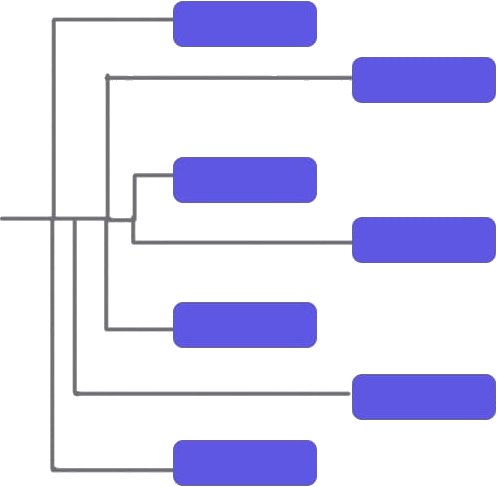
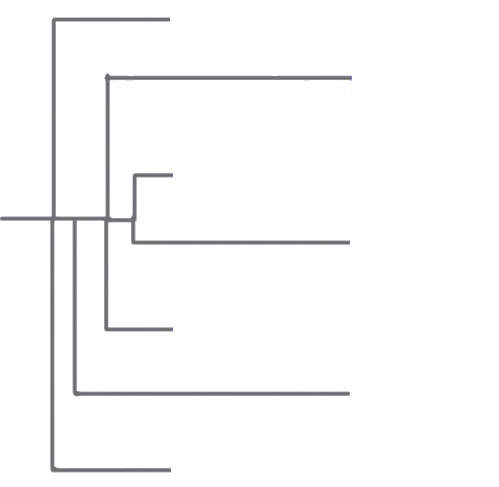
final commit

diff --git a/Category.html b/Category.html
@@ -13,7 +13,7 @@
         {
             padding: 20px;
             width: 100%;
-            margin-bottom: 60px;
+            margin-bottom: 10%;
         }
         .computerdiv
         {
@@ -38,155 +38,51 @@
         {
             
             margin-left: 0;
-            width: 60%;
+            width: 62%;
+            height: 70vh;
             background-image: url("assest/layout.png");
             background-repeat: no-repeat;
             background-size: 100% 100%;
             position: relative;
             
         }
-        .row .layout .element1
+        .row .layout .elementodd
         {
 
-            width: 250px;
-            position: absolute;
+            width: 32%;
+            display: block;
             background-color: #5e57e3;
             padding: 10px 40px ;
             border-radius: 10px;
-            left:34%;
-            top: 1px;
+            margin-left: 34%;
+            margin-bottom: 1.5%;
             color: white;
             text-transform: uppercase;
             text-decoration: none;
             text-align: center;
         }
-        .row .layout .element1:hover
+        .row .layout .elementodd:hover
         {
             background-color: white;
             color: #5e57e3;
             border: 2px solid #5e57e3;
         }
-        .row .layout .element2
+        .row .layout .elementeven
         {
 
-            width: 250px;
-            position: absolute;
+            width: 32%;
+            display: block;
             background-color: #5e57e3;
             padding: 10px 40px ;
             border-radius: 10px;
-            left:70%;
-            top: 50px;
-            color: white;
-            text-transform: uppercase;
-            text-decoration: none;
-            font-size: 15px;
-            text-align: center;
-        }
-        .row .layout .element2:hover
-        {
-            background-color: white;
-            color: #5e57e3;
-            border: 2px solid #5e57e3;
-        }
-        .row .layout .element3
-        {
-
-            width: 250px;
-            position: absolute;
-            background-color: #5e57e3;
-            padding: 10px 40px ;
-            border-radius: 10px;
-            left:34%;
-            top: 140px;
+            margin-left: 70%;
+            margin-bottom: 4.2%;
             color: white;
             text-transform: uppercase;
             text-decoration: none;
             text-align: center;
         }
-        .row .layout .element3:hover
-        {
-            background-color: white;
-            color: #5e57e3;
-            border: 2px solid #5e57e3;
-        }
-        .row .layout .element4
-        {
-
-            width: 250px;
-            position: absolute;
-            background-color: #5e57e3;
-            padding: 10px 40px ;
-            border-radius: 10px;
-            left:70%;
-            top: 195px;
-            color: white;
-            text-transform: uppercase;
-            text-decoration: none;
-            text-align: center;
-        }
-        .row .layout .element4:hover
-        {
-            background-color: white;
-            color: #5e57e3;
-            border: 2px solid #5e57e3;
-        }
-        .row .layout .element5
-        {
-
-            width: 250px;
-            position: absolute;
-            background-color: #5e57e3;
-            padding: 10px 40px ;
-            border-radius: 10px;
-            left:34%;
-            top: 275px;
-            color: white;
-            text-transform: uppercase;
-            text-decoration: none;
-            text-align: center;
-        }
-        .row .layout .element5:hover
-        {
-            background-color: white;
-            color: #5e57e3;
-            border: 2px solid #5e57e3;
-        }
-        .row .layout .element6
-        {
-
-            width: 250px;
-            position: absolute;
-            background-color: #5e57e3;
-            padding: 10px 40px ;
-            border-radius: 10px;
-            left:70%;
-            top: 337px;
-            color: white;
-            text-transform: uppercase;
-            text-decoration: none;
-            text-align: center;
-        }
-        .row .layout .element6:hover
-        {
-            background-color: white;
-            color: #5e57e3;
-            border: 2px solid #5e57e3;
-        }
-        .row .layout .element7
-        {
-            width: 250px;
-            position: absolute;
-            background-color: #5e57e3;
-            padding: 10px 40px ;
-            border-radius: 10px;
-            left:34%;
-            top: 400px;
-            color: white;
-            text-transform: uppercase;
-            text-decoration: none;
-            text-align: center;
-        }
-        .row .layout .element7:hover
+        .row .layout .elementeven:hover
         {
             background-color: white;
             color: #5e57e3;
@@ -215,160 +111,56 @@
         {
             
             margin-left: 70px;
-            width: 60%;
+            width: 62%;
+            height: 70vh;
             background-image: url("assest/layoutodd.png");
             background-repeat: no-repeat;
             background-size: 100% 100%;
             position: relative;
             
         }
-        .row .layoutodd .element1
+        .row .layoutodd .elementodd
         {
 
-            width: 250px;
-            position: absolute;
+            width: 32%;
+            display: block;
             background-color: #5e57e3;
             padding: 10px 40px ;
             border-radius: 10px;
-            left:34%;
-            top: 1px;
+            margin-left: 34%;
+            margin-bottom: 2.5%;
             color: white;
             text-transform: uppercase;
             text-decoration: none;
             text-align: center;
         }
-        .row .layoutodd .element1:hover
+        .row .layoutodd .elementodd:hover
         {
             background-color: white;
             color: #5e57e3;
             border: 2px solid #5e57e3;
         }
-        .row .layoutodd .element2
+        .row .layoutodd .elementeven
         {
-
-            width: 250px;
-            position: absolute;
+            width: 32%;
+            display: block;
             background-color: #5e57e3;
             padding: 10px 40px ;
             border-radius: 10px;
-            left:1px;
-            top: 60px;
-            color: white;
-            text-transform: uppercase;
-            text-decoration: none;
-            font-size: 15px;
-            text-align: center;
-        }
-        .row .layoutodd .element2:hover
-        {
-            background-color: white;
-            color: #5e57e3;
-            border: 2px solid #5e57e3;
-        }
-        .row .layoutodd .element3
-        {
-
-            width: 250px;
-            position: absolute;
-            background-color: #5e57e3;
-            padding: 10px 40px ;
-            border-radius: 10px;
-            left:34%;
-            top: 125px;
+            margin-left: 0%;
+            margin-bottom: 3.5%;
             color: white;
             text-transform: uppercase;
             text-decoration: none;
             text-align: center;
         }
-        .row .layoutodd .element3:hover
+        .row .layoutodd .elementeven:hover
         {
             background-color: white;
             color: #5e57e3;
             border: 2px solid #5e57e3;
         }
-        .row .layoutodd .element4
-        {
-
-            width: 250px;
-            position: absolute;
-            background-color: #5e57e3;
-            padding: 10px 40px ;
-            border-radius: 10px;
-            left:1px;
-            top: 203px;
-            color: white;
-            text-transform: uppercase;
-            text-decoration: none;
-            text-align: center;
-        }
-        .row .layoutodd .element4:hover
-        {
-            background-color: white;
-            color: #5e57e3;
-            border: 2px solid #5e57e3;
-        }
-        .row .layoutodd .element5
-        {
-
-            width: 250px;
-            position: absolute;
-            background-color: #5e57e3;
-            padding: 10px 40px ;
-            border-radius: 10px;
-            left:34%;
-            top: 257px;
-            color: white;
-            text-transform: uppercase;
-            text-decoration: none;
-            text-align: center;
-        }
-        .row .layoutodd .element5:hover
-        {
-            background-color: white;
-            color: #5e57e3;
-            border: 2px solid #5e57e3;
-        }
-        .row .layoutodd .element6
-        {
-
-            width: 250px;
-            position: absolute;
-            background-color: #5e57e3;
-            padding: 10px 40px ;
-            border-radius: 10px;
-            left:1px;
-            top: 347px;
-            color: white;
-            text-transform: uppercase;
-            text-decoration: none;
-            text-align: center;
-        }
-        .row .layoutodd .element6:hover
-        {
-            background-color: white;
-            color: #5e57e3;
-            border: 2px solid #5e57e3;
-        }
-        .row .layoutodd .element7
-        {
-            width: 250px;
-            position: absolute;
-            background-color: #5e57e3;
-            padding: 10px 40px ;
-            border-radius: 10px;
-            left:34%;
-            top: 397px;
-            color: white;
-            text-transform: uppercase;
-            text-decoration: none;
-            text-align: center;
-        }
-        .row .layoutodd .element7:hover
-        {
-            background-color: white;
-            color: #5e57e3;
-            border: 2px solid #5e57e3;
-        }
+       
     </style>
     <title>Category Page</title>
 </head>
@@ -408,13 +200,13 @@
                 <h1>computer services</h1>
             </div>
             <div class="layout">
-                <a href="#" class="element1">app development</a>
-                <a href="#" class="element2">internet of things</a>
-                <a href="#" class="element3">web development</a>
-                <a href="#" class="element4">ui/ux</a>
-                <a href="#" class="element5">Grapic design</a>
-                <a href="#" class="element6"> machine learning</a>
-                <a href="#" class="element7">software issues</a>
+                <a href="#" class="elementodd">app development</a>
+                <a href="#" class="elementeven">internet of things</a>
+                <a href="#" class="elementodd">web development</a>
+                <a href="#" class="elementeven">ui/ux</a>
+                <a href="#" class="elementodd">Grapic design</a>
+                <a href="#" class="elementeven"> machine learning</a>
+                <a href="#" class="elementodd mb-0">software issues</a>
             </div>
         </div>
 
@@ -422,13 +214,13 @@
         <!-- Mechanical Services -->
         <div class="row">
             <div class="layoutodd">
-                <a href="#" class="element1">3D and 2D Design Analysis</a>
-                <a href="#" class="element2">3D Design</a>
-                <a href="#" class="element3">Master CAM</a>
-                <a href="#" class="element4">VMC</a>
-                <a href="#" class="element5">3D Router</a>
-                <a href="#" class="element6">Panchure jodna</a>
-                <a href="#" class="element7">Baki saare kaam</a>
+                <a href="#" class="elementodd w-50">3D and 2D Design Analysis</a>
+                <a href="#" class="elementeven">3D Design</a>
+                <a href="#" class="elementodd">Master CAM</a>
+                <a href="#" class="elementeven">VMC</a>
+                <a href="#" class="elementodd">3D Router</a>
+                <a href="#" class="elementeven">Panchure jodna</a>
+                <a href="#" class="elementodd mb-0">Baki saare kaam</a>
             </div>
             <div class="mechanicaldiv">
                 <img class="mechanical" src="./assest/Mechanical.jpg" alt="">
